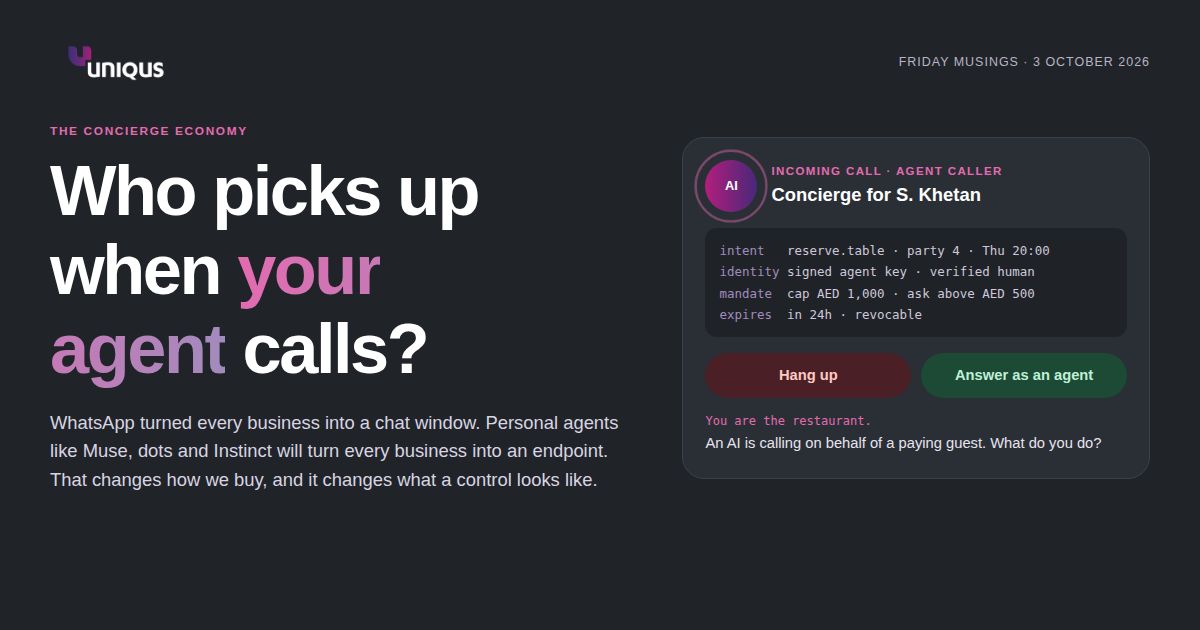
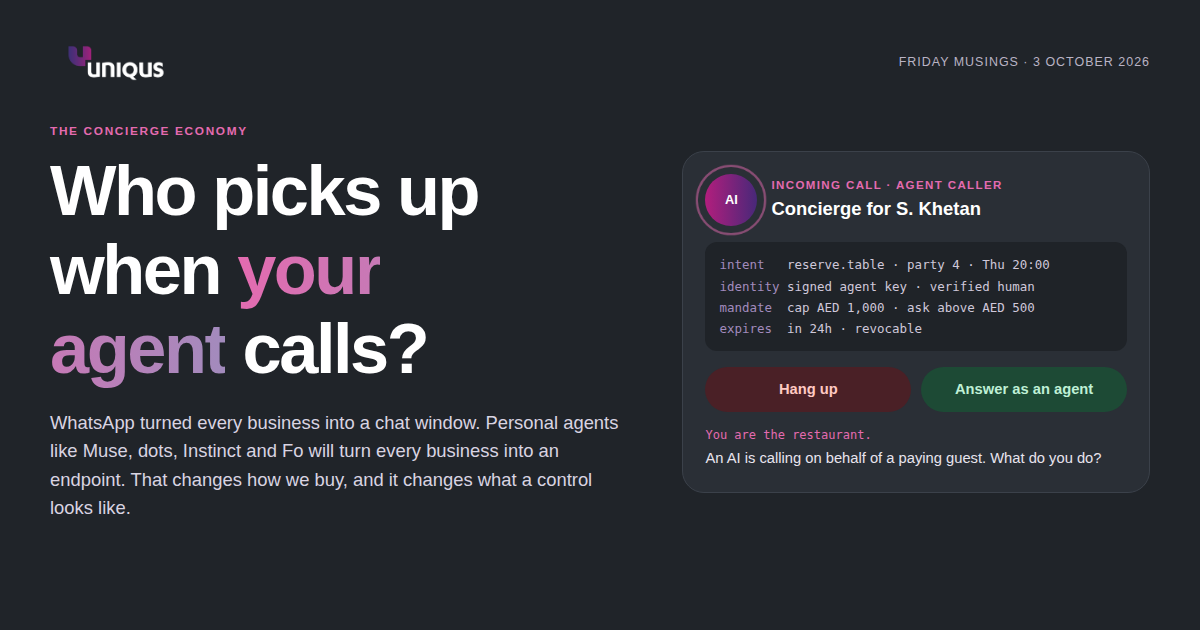
Add Wajo's Fo to the musing and playground; fix musing script
- Fo joins the race cards (now five), the essay, a new controller's-view
  callout on agent liability (Wajo's terms: responsible "as if you had
  taken those actions yourself"), bet 6, sources, LinkedIn post, and the
  playground's availability table.
- Remove CSS that an earlier edit injected into the musing's script,
  which stopped the simulator from running.
- Regenerate the LinkedIn preview image.

Claude-Session: https://claude.ai/code/session_017boD9hVrt8Eraen9ZEUbPh

Changed region(s): [[0.555, 0.2111, 0.9558, 0.754], [0.0308, 0.6937, 0.5242, 0.8143]]

diff --git a/2026-10-03-who-picks-up/index.html b/2026-10-03-who-picks-up/index.html
@@ -113,7 +113,7 @@ section.block { padding-block: 64px; }
 .lede { max-width: 44em; margin-top: 14px; font-size: 1.06rem; }
 .section-head { display: grid; gap: 4px; }
 
-.race { display: grid; grid-template-columns: repeat(4, minmax(0, 1fr)); gap: 14px; margin-top: 28px; }
+.race { display: grid; grid-template-columns: repeat(auto-fit, minmax(min(100%, 200px), 1fr)); gap: 14px; margin-top: 28px; }
 .race article { background: var(--surface); border: 1px solid var(--line); border-radius: 14px; padding: 18px; display: grid; gap: 8px; align-content: start; }
 .race .who { font-size: 0.74rem; color: var(--meta); letter-spacing: 0.08em; text-transform: uppercase; font-weight: 700; }
 .race h3 { color: var(--purple); font-size: 1.25rem; }
@@ -267,12 +267,11 @@ footer a { color: #E46BB0; }
 @media (max-width: 1040px) {
   .sim { grid-template-columns: minmax(0, 1fr) minmax(0, 1fr); }
   .sim .chat-panel { grid-column: 1 / -1; order: -1; }
-  .race { grid-template-columns: repeat(2, minmax(0, 1fr)); }
   .bets { grid-template-columns: repeat(2, minmax(0, 1fr)); }
 }
 @media (max-width: 760px) {
   .hero-grid, .doors, .ready, .sim { grid-template-columns: minmax(0, 1fr); }
-  .race, .bets { grid-template-columns: minmax(0, 1fr); }
+  .bets { grid-template-columns: minmax(0, 1fr); }
   .metrics { grid-template-columns: repeat(2, minmax(0, 1fr)); }
   .chat { height: 420px; }
   .score { position: static; }
@@ -296,7 +295,7 @@ footer a { color: #E46BB0; }
       <div>
         <p class="eyebrow" style="color:#E46BB0">The concierge economy</p>
         <h1 style="margin-top:12px">Who picks up when <em>your agent</em> calls?</h1>
-        <p class="dek">WhatsApp turned every business into a chat window. Personal agents like Muse, dots and Instinct will turn every business into an endpoint. That changes how we buy, and it changes what a control looks like.</p>
+        <p class="dek">WhatsApp turned every business into a chat window. Personal agents like Muse, dots, Instinct and Fo will turn every business into an endpoint. That changes how we buy, and it changes what a control looks like.</p>
         <p class="byline"><b>Sandip Khetan</b> · Co-Founder, Uniqus Consultech · 7 min read · <a href="/concierge/" style="color:#E46BB0">or give a live concierge your chores</a></p>
       </div>
       <div class="call" id="call">
@@ -327,7 +326,7 @@ footer a { color: #E46BB0; }
     <div class="wrap">
       <div class="section-head">
         <p class="eyebrow">September 2026</p>
-        <h2>Four concierges in eight weeks</h2>
+        <h2>Five concierges in eight weeks</h2>
       </div>
       <p class="lede">The personal assistant we were promised for fifteen years arrived all at once. Each one has its own cloud computer, remembers your life, and wants to run errands for you. The race is to become your default.</p>
       <div class="race">
@@ -343,8 +342,13 @@ footer a { color: #E46BB0; }
         </article>
         <article>
           <span class="who">Startup</span><h3>Instinct</h3><span class="when">Invite only</span>
-          <p>No app to learn. You text or call it, and it texts or calls you first. It reads email, messages, screen, audio and location, and now has its own email addresses and phone calls. Reported in talks at a $10B valuation.</p>
+          <p>No app to learn. You text or call it, and it texts or calls you first. It reads email, messages, screen, audio and location, and now has its own email addresses and phone calls. Reportedly valued at $10B.</p>
           <a href="https://www.axios.com/2026/09/20/ai-assistant-openai-meta-muse-instinct-grok-apple" target="_blank" rel="noopener">Axios, 20 Sep</a>
+        </article>
+        <article>
+          <span class="who">Wajo</span><h3>Fo</h3><span class="when">Public since 28 Sep</span>
+          <p>Its own phone number, inbox, voice and a single-use card for every purchase. Calls businesses in their language, and hands tasks AI can't finish to trained human assistants. Free tier.</p>
+          <a href="https://wajo.ai/" target="_blank" rel="noopener">Wajo</a>
         </article>
         <article>
           <span class="who">SpaceXAI</span><h3>Grok Bot</h3><span class="when">Beta since Aug</span>
@@ -486,6 +490,10 @@ footer a { color: #E46BB0; }
         <b>Your next user access review will have new names in it</b>
         <p>OpenAI is previewing specialist dots with "their own identity for access management", plus credentials into a company's systems of record. Those are users. They need provisioning, periodic access review, and termination like everyone else, and they work weekends. COSO Principle 11 (general controls over technology) just gained a new population.</p>
       </div>
+      <div class="callout">
+        <b>Read the terms: the liability stays with you</b>
+        <p>Wajo's terms for Fo, as reported at launch, make the user responsible for the agent's actions "as if you had taken those actions yourself". And if you don't configure spending controls, Wajo "may act on any instructions it reasonably determines were provided by you within the scope of your general authorization". In control terms, the user is the control owner, and the mandate is the only control they hold. Set it before you connect a card.</p>
+      </div>
     </div>
   </section>
 
@@ -534,6 +542,7 @@ footer a { color: #E46BB0; }
         <blockquote>WhatsApp made every business a chat. Agents will make every business an endpoint.</blockquote>
         <p>So someone has to build the agent gateway: a website that publishes what it can do for machines, a phone line that recognises an agent caller and switches to a structured channel, a way to check which agent is calling and whose authority it carries, and a receipt both sides can rely on. The pieces are appearing (agent cards, Web Bot Auth, PACT, x402). The plumbing is the easy part.</p>
         <p>The hard part is the one I've spent my career on. Every agent errand is a delegated transaction. Delegation needs authorization, limits, segregation and evidence. If your dot approved a purchase order at 2am, who owned that control? Who reviewed its access last quarter? Where is the receipt?</p>
+        <p>Read the terms and the answer is already there. Wajo's Fo, one of the most careful of the new agents (single-use cards, its own inbox, humans for the hard bits), still makes you responsible "as if you had taken those actions yourself". The agent acts; you own the control. Most people will connect a card long before they write a mandate.</p>
         <p>In the WhatsApp era the question was "are you on WhatsApp?" In the agent era it will be "can my agent talk to yours?" For those of us in controls, there's a follow-up: "can you prove what it agreed to?"</p>
         <p>Have a great weekend. If your concierge is reading this for you, say hello.</p>
       </div>
@@ -555,6 +564,7 @@ footer a { color: #E46BB0; }
           <li><a href="https://www.reuters.com/business/meta-testing-human-concierge-its-new-personal-ai-agent-muse-2026-09-22/" target="_blank" rel="noopener">Reuters, Meta testing a "human concierge" for Muse</a> (22 Sep 2026)</li>
           <li><a href="https://openai.com/index/introducing-dots/" target="_blank" rel="noopener">OpenAI, Introducing dots</a> (29 Sep 2026)</li>
           <li><a href="https://www.axios.com/2026/09/20/ai-assistant-openai-meta-muse-instinct-grok-apple" target="_blank" rel="noopener">Axios, The tech battle to build your AI assistant</a> (20 Sep 2026)</li>
+          <li><a href="https://wajo.ai/" target="_blank" rel="noopener">Wajo, Fo</a> and <a href="https://www.progressiverobot.com/2026/09/29/wajo-launches-fo-ai-agent-calls-payments/" target="_blank" rel="noopener">launch coverage quoting its terms of service</a> (29 Sep 2026)</li>
           <li><a href="https://blog.cloudflare.com/the-agentic-internet/" target="_blank" rel="noopener">Cloudflare, Building an open Agentic Internet</a> (6 Aug 2026)</li>
         </ol>
       </div>
@@ -887,12 +897,7 @@ footer a { color: #E46BB0; }
   selectErrand("dinner");
   run(true);
 
-  .live-cta { margin-top: 22px; display: flex; justify-content: space-between; align-items: center; gap: 16px; flex-wrap: wrap; background: var(--hero); color: #fff; border-radius: 16px; padding: 18px 20px; }
-.live-cta p { color: #D9D4E2; font-size: .95rem; max-width: 46em; }
-.live-cta b { color: #fff; font-size: 1.1rem; display: block; margin-bottom: 4px; }
-.live-cta a { background: var(--grad); color: #fff; text-decoration: none; font-weight: 700; padding: 11px 20px; border-radius: 999px; white-space: nowrap; }
-
-/* ---------- Two front doors ---------- */
+  /* ---------- Two front doors ---------- */
   function door(agent) {
     $("viewHuman").setAttribute("aria-pressed", String(!agent));
     $("viewAgent").setAttribute("aria-pressed", String(agent));
@@ -909,7 +914,7 @@ footer a { color: #E46BB0; }
     ["2028", "Know Your Agent sits next to KYC. Banks and brokers ask for the agent's credential and the human's mandate before acting."],
     ["2028", "Your default concierge becomes the new gatekeeper. Brands fight to be its first suggestion the way they fought for page one of search."],
     ["2028", "Agent-initiated transactions become their own population in SOX walkthroughs, with the mandate as the key control."],
-    ["2029", "Talking to a human becomes a premium tier. In Meta's tests, human-placed calls succeeded 95 to 98% of the time, beating the AI."]
+    ["2029", "Talking to a human becomes a premium tier. In Meta's tests human-placed calls succeeded 95 to 98% of the time, and Wajo's Fo already hands hard tasks to trained humans."]
   ];
   var votes = store("musing-bets") || {};
   var betsEl = $("bets");
@@ -975,7 +980,7 @@ footer a { color: #E46BB0; }
     "",
     "The agents are ready. The front doors aren't.",
     "",
-    "In eight weeks we got Meta's Muse, OpenAI's dots, Instinct and Grok Bot. Each wants to be your personal concierge. Soon your customer won't visit your website or wait on hold. Their agent will, and it won't solve your CAPTCHA.",
+    "In eight weeks we got Meta's Muse, OpenAI's dots, Instinct, Wajo's Fo and Grok Bot. Each wants to be your personal concierge. Soon your customer won't visit your website or wait on hold. Their agent will, and it won't solve your CAPTCHA.",
     "",
     "WhatsApp made every business a chat. Agents will make every business an endpoint.",
     "",

diff --git a/concierge/index.html b/concierge/index.html
@@ -175,7 +175,7 @@ footer a { color: #E46BB0; }
     </div>
     <p class="eyebrow" style="color:#E46BB0;margin-top:26px">Live demo · Claude Sonnet 5.5</p>
     <h1>Give my concierge <em>a chore</em></h1>
-    <p class="dek">Muse launched US-only and dots needs a paid ChatGPT plan, so most of India can't try a personal agent yet. This one runs for anyone. It books with demo businesses that answer agents, builds your calendar, and drafts the messages you still need to send, inside a mandate you set.</p>
+    <p class="dek">Most of the new personal agents are US-first, paid or invite-only, so most people in India haven't tried one yet. This one runs for anyone, anywhere. It books with demo businesses that answer agents, builds your calendar, and drafts the messages you still need to send, inside a mandate you set.</p>
   </div>
 </header>
 <div class="bar"></div>
@@ -280,6 +280,7 @@ footer a { color: #E46BB0; }
               <tr><td>Muse (Meta)</td><td>US only at launch, 8 Sep 2026</td><td>Free and paid tiers; app and WhatsApp</td></tr>
               <tr><td>dots (OpenAI)</td><td>Eligible markets; not EEA, UK or Switzerland at launch</td><td>ChatGPT Pro and Business Premium, Enterprise beta</td></tr>
               <tr><td>Instinct</td><td>Invite only</td><td>Text or call; pricing not published</td></tr>
+              <tr><td>Fo (Wajo)</td><td>Public since 28 Sep 2026</td><td>Free tier with a daily limit; unlimited tier by invite</td></tr>
               <tr><td>Grok Bot (SpaceXAI)</td><td>Beta since Aug 2026</td><td>SuperGrok or eligible Cursor plans</td></tr>
               <tr><td>This playground</td><td>Anywhere</td><td>Free, a few runs per hour</td></tr>
             </tbody>
